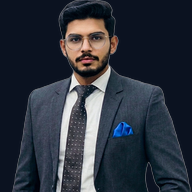
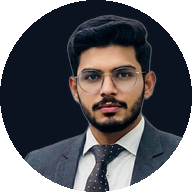
change form submission to emailjs

diff --git a/src/components/Contact.jsx b/src/components/Contact.jsx
@@ -2,18 +2,18 @@ import { useEffect, useRef, useState } from 'react';
 import { useForm } from 'react-hook-form';
 import { yupResolver } from '@hookform/resolvers/yup';
 import * as yup from 'yup';
-import emailjs from '@emailjs/browser';
 import { FaGithub, FaLinkedin, FaWhatsapp } from 'react-icons/fa';
 import { SiUpwork, SiFiverr } from 'react-icons/si';
 import { ScrollSection, Reveal } from './ScrollReveal';
 
 const EMAIL = 'bilalwaleed01@gmail.com';
+const WEB3FORMS_ACCESS_KEY = 'cfe98c03-f7ab-4235-b9b9-29d2e3e3ac93';
 
 const CAL_BOOKING_URL = 'https://cal.com/bilal-waleed-vefcxb/intro-call';
 
 /** Replace these with your profile URLs when you have them. */
 const UPWORK_URL = '#';
-const FIVERR_URL = '#';
+const FIVERR_URL = 'https://www.fiverr.com/bilal_waleed';
 /** Digits only, with country code. Example: 923001234567 */
 const WHATSAPP_NUMBER = '923292109096';
 const WHATSAPP_URL = `https://wa.me/${WHATSAPP_NUMBER}`;
@@ -190,25 +190,36 @@ export default function Contact() {
     const country = countryCodes.find((item) => item.id === data.countryId);
     const phone = `${country?.dial || ''} ${data.phone}`;
 
-    const emailParams = {
-      from_name: data.name,
-      from_email: data.email,
-      to_email: 'enemyop123456789@gmail.com',
-      reply_to: data.email,
-      name: data.name,
-      email: data.email,
-      phone,
-      message: `Project type: ${data.projectType}\nBudget: ${data.budget}\n\n${data.message}`,
-      project_source: 'Portfolio Contact Form Message',
-    };
-
     try {
-      await emailjs.send('service_5s9rybe', 'template_skdaqm7', emailParams, 'mJNe4k8LuOfkw5FHc');
+      const response = await fetch('https://api.web3forms.com/submit', {
+        method: 'POST',
+        headers: {
+          'Content-Type': 'application/json',
+          Accept: 'application/json',
+        },
+        body: JSON.stringify({
+          access_key: WEB3FORMS_ACCESS_KEY,
+          subject: `Portfolio inquiry — ${data.projectType}`,
+          from_name: data.name,
+          name: data.name,
+          email: data.email,
+          phone,
+          project_type: data.projectType,
+          budget: data.budget,
+          message: data.message,
+        }),
+      });
+
+      const result = await response.json();
+      if (!response.ok || !result.success) {
+        throw new Error(result.message || 'Form submission failed');
+      }
+
       setShowSuccess(true);
       reset({ countryId: 'PK' });
       setTimeout(() => setShowSuccess(false), 10000);
     } catch (error) {
-      console.error('Failed to send email:', error?.text || error);
+      console.error('Failed to send form:', error);
       setShowError(true);
       setTimeout(() => setShowError(false), 5000);
     } finally {

diff --git a/index.html b/index.html
@@ -18,9 +18,9 @@
     <meta name="color-scheme" content="dark" />
     <link rel="canonical" href="https://bilalwaleed.dev/" />
 
-    <link rel="icon" type="image/png" sizes="32x32" href="/favicon-32.png" />
-    <link rel="icon" type="image/png" sizes="48x48" href="/favicon.png" />
-    <link rel="apple-touch-icon" href="/apple-touch-icon.jpg" />
+    <link rel="icon" type="image/png" sizes="32x32" href="/favicon-32.png?v=4" />
+    <link rel="icon" type="image/png" sizes="48x48" href="/favicon.png?v=4" />
+    <link rel="apple-touch-icon" href="/apple-touch-icon.jpg?v=4" />
     <link rel="manifest" href="/site.webmanifest" />
 
     <meta property="og:type" content="website" />

diff --git a/src/components/Navbar.jsx b/src/components/Navbar.jsx
@@ -15,7 +15,7 @@ const navLinks = ["About", "Services", "Projects", "Skills", "Achievements", "Co
 
 const WHATSAPP_URL = "https://wa.me/923292109096";
 const UPWORK_URL = "#";
-const FIVERR_URL = "#";
+const FIVERR_URL = "https://www.fiverr.com/bilal_waleed";
 
 const desktopSocials = [
   { href: "https://www.linkedin.com/in/bilal-waleed-2411172bb/", icon: FaLinkedin, label: "LinkedIn" },

diff --git a/vite.config.js b/vite.config.js
@@ -25,7 +25,7 @@ export default defineConfig({
           react: ['react', 'react-dom'],
           motion: ['framer-motion'],
           particles: ['react-tsparticles', 'tsparticles-slim'],
-          forms: ['react-hook-form', '@hookform/resolvers', 'yup', '@emailjs/browser'],
+          forms: ['react-hook-form', '@hookform/resolvers', 'yup'],
         },
       },
     },

diff --git a/scripts/make-favicon.py b/scripts/make-favicon.py
@@ -1,0 +1,58 @@
+from PIL import Image, ImageDraw
+from pathlib import Path
+
+public = Path(r"E:\web development practice\Reactjs projects\portfolio\public")
+img = Image.open(public / "profile.png").convert("RGBA")
+w, h = img.size
+
+# Head-focused region (upper half of portrait)
+head_bottom = int(h * 0.52)
+head = img.crop((0, 0, w, head_bottom))
+hw, hh = head.size
+
+# Square around the face — shift crop left so the face sits slightly right of center
+side = min(hw, hh)
+left = (hw - side) // 2 - int(side * 0.14)
+left = max(0, left)
+if left + side > hw:
+    left = hw - side
+top = max(0, (hh - side) // 2 - int(side * 0.04))
+if top + side > hh:
+    top = hh - side
+crop = head.crop((left, top, left + side, top + side))
+
+
+def make_icon(size, opaque=False):
+    face = crop.resize((size, size), Image.Resampling.LANCZOS)
+    # Dark theme disc behind the photo
+    bg_color = (11, 18, 32, 255) if opaque else (11, 18, 32, 255)
+    canvas = Image.new("RGBA", (size, size), (0, 0, 0, 0))
+    disc = Image.new("RGBA", (size, size), (0, 0, 0, 0))
+    disc_draw = ImageDraw.Draw(disc)
+    disc_draw.ellipse((0, 0, size - 1, size - 1), fill=bg_color)
+
+    mask = Image.new("L", (size, size), 0)
+    ImageDraw.Draw(mask).ellipse((0, 0, size - 1, size - 1), fill=255)
+
+    round_face = Image.new("RGBA", (size, size), (0, 0, 0, 0))
+    round_face.paste(face, (0, 0), mask)
+
+    canvas.paste(disc, (0, 0), disc)
+    canvas.paste(round_face, (0, 0), round_face)
+    return canvas
+
+
+for size, name in [
+    (32, "favicon-32.png"),
+    (48, "favicon.png"),
+    (192, "icon-192.png"),
+    (512, "icon-512.png"),
+]:
+    make_icon(size).save(public / name, optimize=True)
+    print(name, "ok")
+
+apple = make_icon(180, opaque=True)
+apple.convert("RGB").save(public / "apple-touch-icon.jpg", quality=90, optimize=True)
+apple.save(public / "apple-touch-icon.png", optimize=True)
+print("apple-touch ok")
+print("done")
